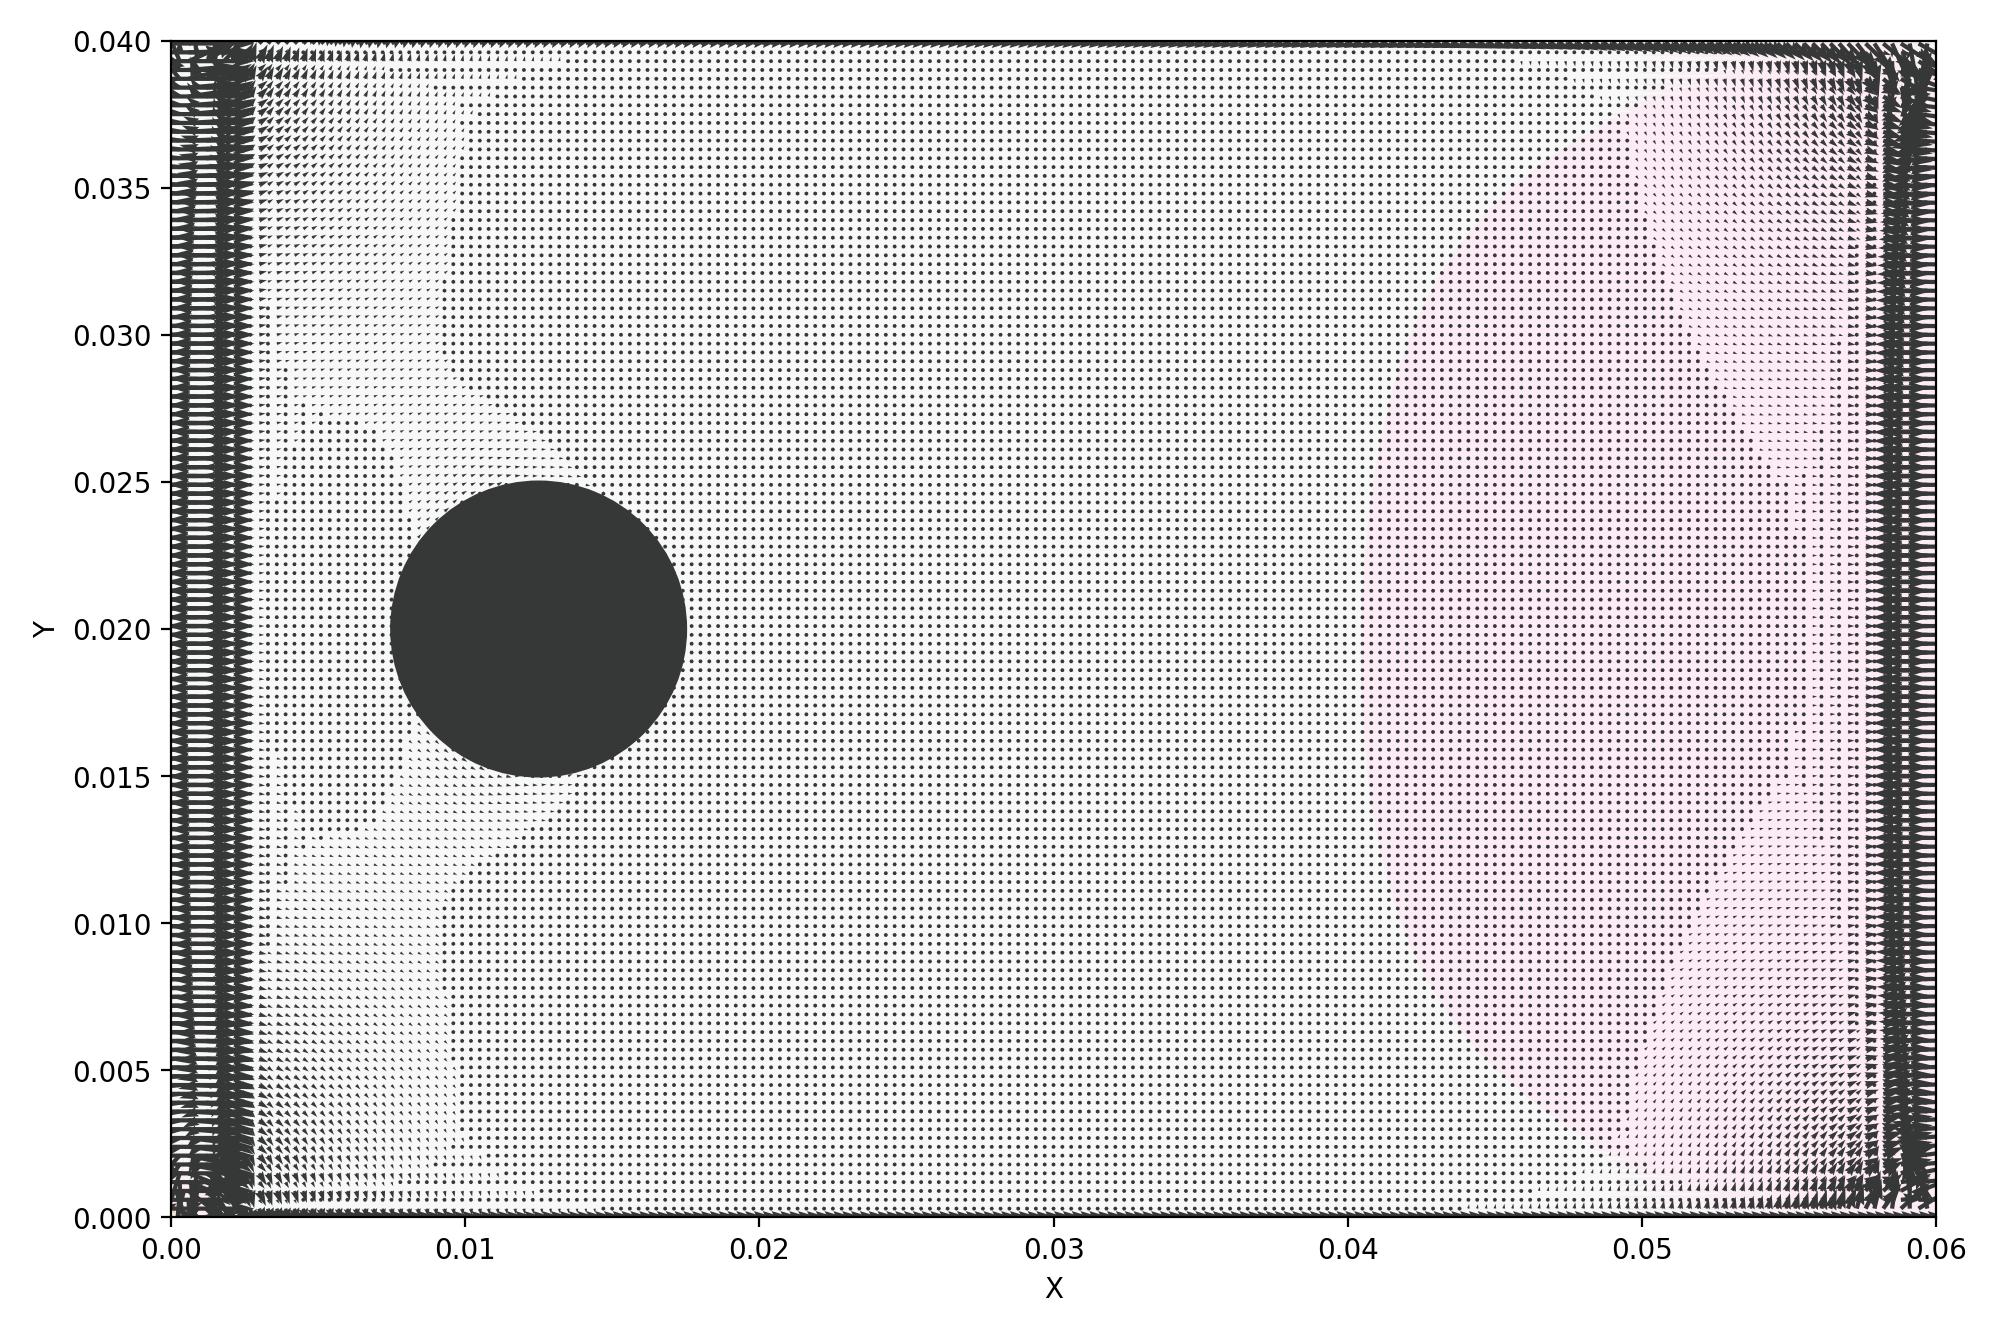
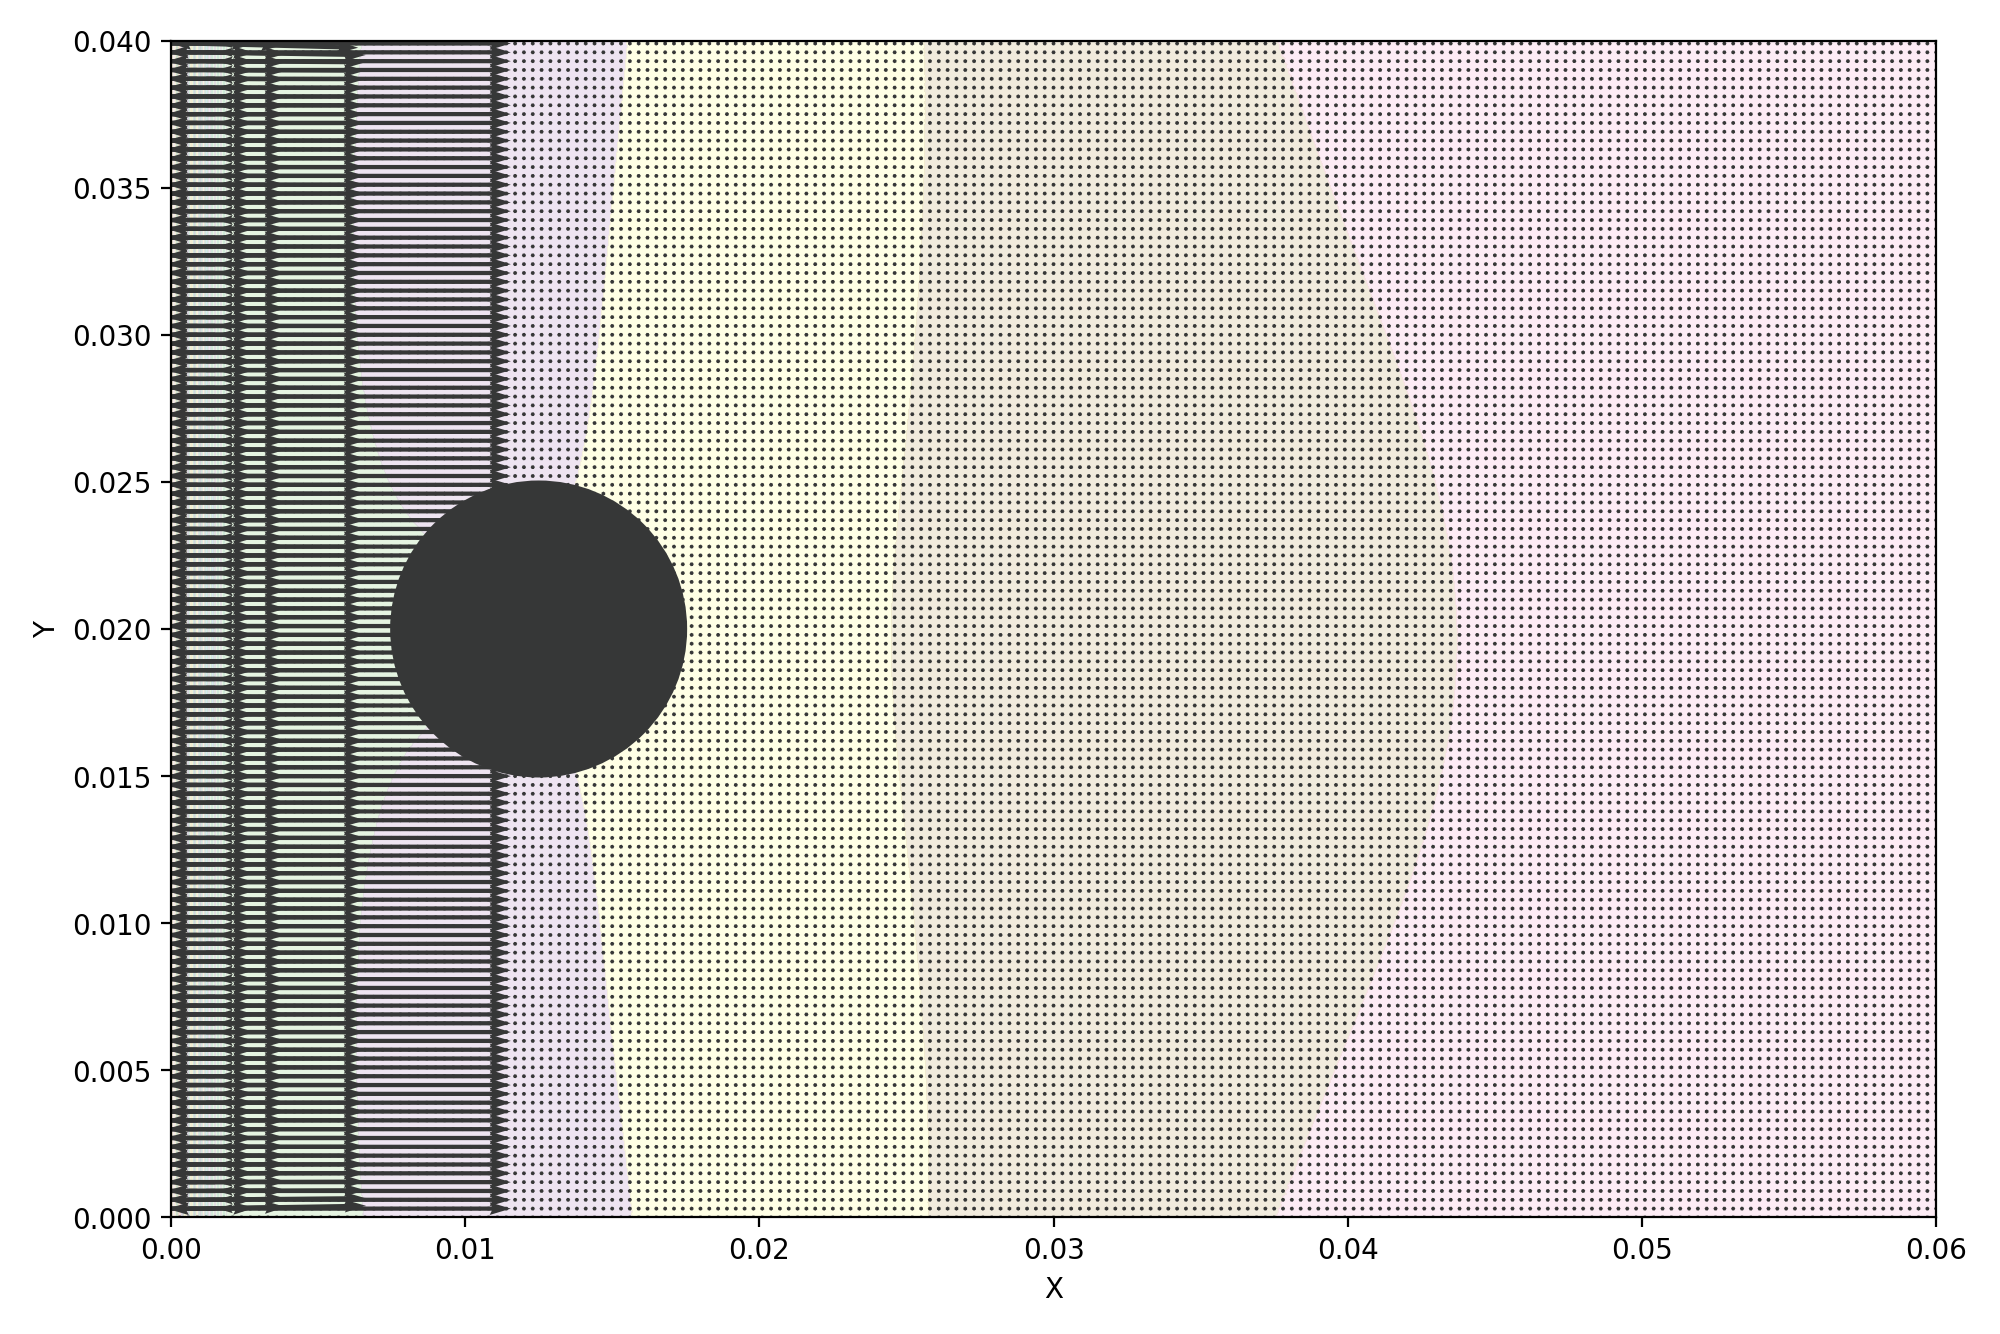
Cylinder example with free slip boundary conditions!

Changed region(s): [[0.403, 0.0307, 0.992, 0.922], [0.062, 0.0307, 0.341, 0.922], [0.372, 0.1229, 0.403, 0.1537]]

diff --git a/examples/cylinder_example.py b/examples/cylinder_example.py
@@ -8,10 +8,13 @@ rho_air = 1.225 / 2  # kg/m³
 nu_air = 3e-5  # m²/s
 
 boundary_conditions = [
-    bc.TopSideFixedVelocityBoundaryCondition(u_value=U, v_value=0),
-    bc.BottomSideFixedVelocityBoundaryCondition(u_value=U, v_value=0),
+    # bc.TopSideFixedVelocityBoundaryCondition(u_value=U, v_value=0),
+    # bc.BottomSideFixedVelocityBoundaryCondition(u_value=U, v_value=0),
     bc.LeftSideFixedVelocityBoundaryCondition(u_value=U, v_value=0),
-    bc.RightSideFixedVelocityBoundaryCondition(u_value=U, v_value=0),
+    # bc.RightSideFixedVelocityBoundaryCondition(u_value=U, v_value=0),
+    bc.TopSideFreeSlipBoundaryCondition(),
+    bc.RightSideFreeSlipBoundaryCondition(),
+    bc.BottomSideFreeSlipBoundaryCondition()
 ]
 
 dimension = 0.005
@@ -29,6 +32,13 @@ a = Environment(
     nu=nu_air,
 )
 
-a.run_many_steps(480)
-a.plot_streamline_plot(title="", filepath="../Figures/cylinder_example_streamline.png")
-a.plot_quiver_plot(title="", filepath="../Figures/cylinder_example_quiver.png")
+
+
+for i in range(14):
+    a.run_many_steps(30)
+    a.plot_streamline_plot(title="",  filepath=f"../Figures/cylinder_example_timesteps/streamline{i:02d}.png")
+
+    if i == 8:
+        a.plot_streamline_plot(title="", filepath="../Figures/cylinder_example_streamline.png")
+        a.plot_quiver_plot(title="", filepath="../Figures/cylinder_example_quiver.png")
+
